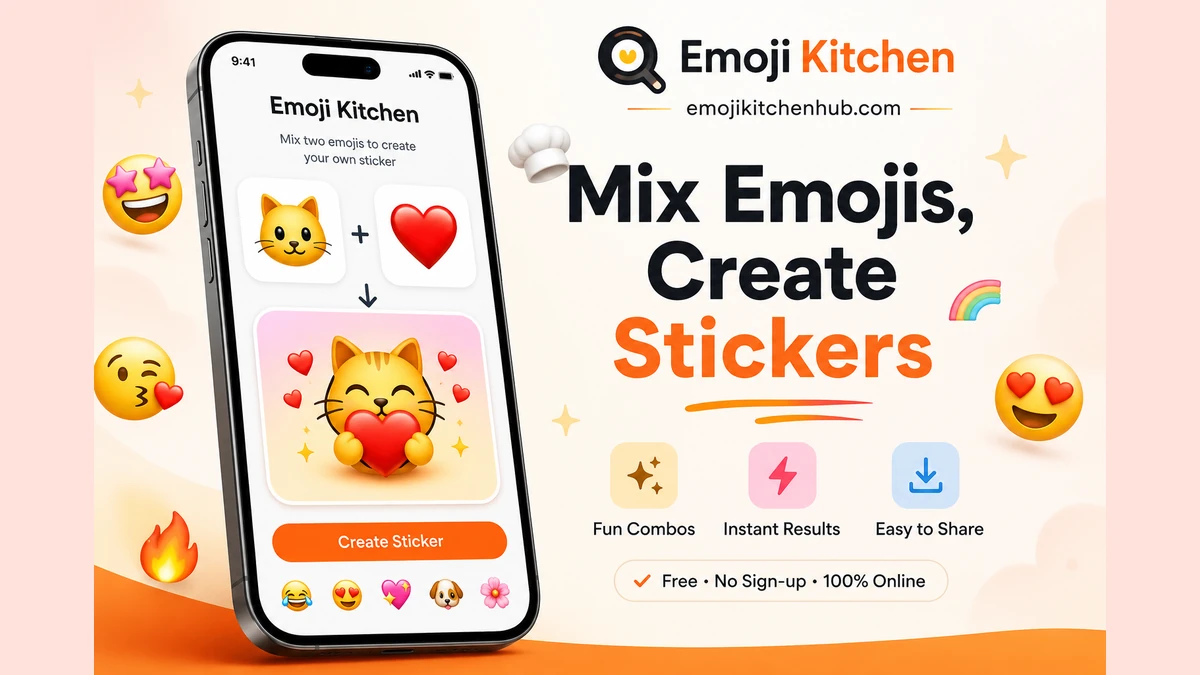
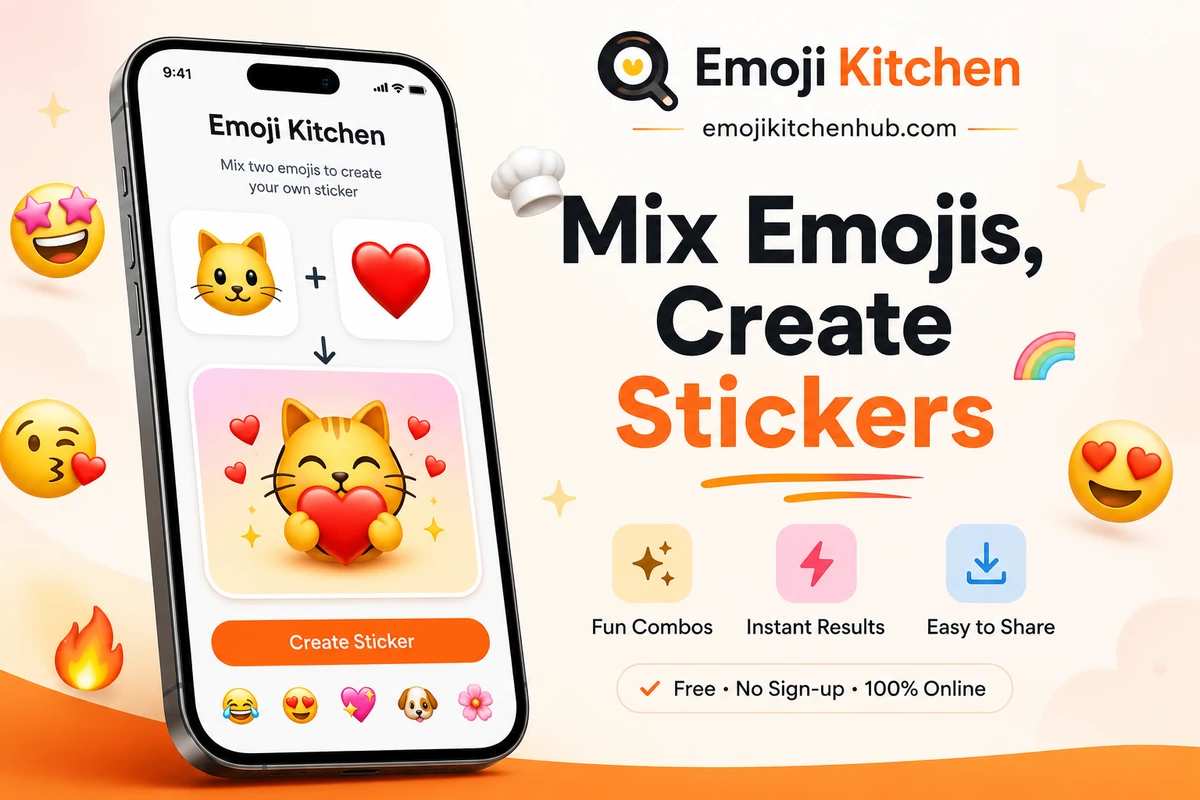
SEO: keep iPhone and WhatsApp covers at native 3:2, 1200x800
Drop the 16:9 letterbox bars that sliced the artwork edges. These two
covers stay at their source aspect with a 1200 long edge and no crop.

diff --git a/kitchen/tests.py b/kitchen/tests.py
@@ -4520,13 +4520,15 @@ class FaqSchemaRenderTests(TestCase):
 # ── 17 Nov 2026 on-page: homepage links, meta cap, compressed covers ─────────
 
 from kitchen.blog_covers import (
+    COVER_ASPECT_TOLERANCE,
     COVER_FILES,
-    COVER_HEIGHT,
-    COVER_WIDTH,
+    COVER_LONG_EDGE,
+    COVER_SOURCE_SIZE,
     MAX_COVER_BYTES,
     cover_bytes as fixture_cover_bytes,
     cover_filename as fixture_cover_filename,
     cover_path as fixture_cover_path,
+    expected_cover_size,
 )
 from kitchen.blog_content import POST_UPDATES
 from kitchen.management.commands.fix_blog_meta_descriptions import META_TARGETS
@@ -4646,11 +4648,12 @@ class FixBlogMetaDescriptionsCommandTests(TestCase):
 
 
 class CompressedBlogCoverTests(TestCase):
-    def test_fixture_covers_are_compressed_1200x675_under_200kb(self):
+    def test_fixture_covers_keep_source_aspect_and_stay_under_200kb(self):
         from PIL import Image
         from io import BytesIO
 
         self.assertEqual(len(COVER_FILES), 10)
+        self.assertEqual(set(COVER_FILES), set(COVER_SOURCE_SIZE))
         for slug in COVER_FILES:
             path = fixture_cover_path(slug)
             self.assertTrue(path.is_file(), slug)
@@ -4658,8 +4661,17 @@ class CompressedBlogCoverTests(TestCase):
             self.assertLessEqual(len(data), MAX_COVER_BYTES, f'{slug} is {len(data)} bytes')
             self.assertTrue(fixture_cover_filename(slug).endswith('.webp'), slug)
             image = Image.open(BytesIO(data))
-            self.assertEqual(image.size, (COVER_WIDTH, COVER_HEIGHT), slug)
-            # hashed name uses the unversioned fixture filename plus 8 hex chars
+            width, height = image.size
+            self.assertEqual((width, height), expected_cover_size(slug), slug)
+            self.assertEqual(max(width, height), COVER_LONG_EDGE, slug)
+            src_w, src_h = COVER_SOURCE_SIZE[slug]
+            source_aspect = src_w / src_h
+            actual_aspect = width / height
+            self.assertLessEqual(
+                abs(actual_aspect - source_aspect) / source_aspect,
+                COVER_ASPECT_TOLERANCE,
+                f'{slug} aspect {actual_aspect} vs source {source_aspect}',
+            )
             from kitchen.blog_seed_utils import cover_versioned_filename
             name = cover_versioned_filename(fixture_cover_filename(slug), data)
             self.assertRegex(name, rf'^{re.escape(path.stem)}-[0-9a-f]{{8}}\.webp$')
@@ -4714,3 +4726,15 @@ class CompressedBlogCoverTests(TestCase):
         for slug in COVER_FILES:
             post = BlogPost.objects.get(slug=slug)
             self.assertEqual(post.updated_at, updated[slug], slug)
+
+        # og:image:width / og:image:height are optional; if present they must
+        # match the attached cover.
+        for slug in COVER_FILES:
+            html = self.client.get(f'/blog/{slug}/').content.decode()
+            width, height = expected_cover_size(slug)
+            og_w = re.search(r'property="og:image:width" content="([^"]*)"', html)
+            og_h = re.search(r'property="og:image:height" content="([^"]*)"', html)
+            if og_w:
+                self.assertEqual(og_w.group(1), str(width), slug)
+            if og_h:
+                self.assertEqual(og_h.group(1), str(height), slug)

diff --git a/kitchen/blog_covers.py b/kitchen/blog_covers.py
@@ -1,8 +1,10 @@
 """Compressed, content-hashed blog cover fixtures.
 
-Each file is a ~1200x675 WebP under 200 KB. Management commands attach
-them with ``assign_versioned_cover`` so the public URL changes, caches
-bust, and IndexNow sees a filename change.
+Eight 16:9 covers are 1200x675 WebP. The iPhone and WhatsApp covers keep
+their native 3:2 ratio at 1200x800, with no letterbox or crop. All files
+are under 200 KB. Management commands attach them with
+``assign_versioned_cover`` so the public URL changes, caches bust, and
+IndexNow sees a filename change.
 """
 
 from pathlib import Path
@@ -25,9 +27,23 @@ COVER_FILES = {
     'emoji-kitchen-instagram': 'emoji-kitchen-instagram-cover.webp',
 }
 
+# Native pixel size of the original artwork, used to keep aspect ratio.
+COVER_SOURCE_SIZE = {
+    'emoji-kitchen-on-pc': (1672, 941),
+    'emoji-kitchen-not-working': (1672, 941),
+    'emoji-kitchen-samsung': (1672, 941),
+    'emoji-kitchen-gboard': (1672, 941),
+    'how-to-save-download-emoji-kitchen-stickers': (1672, 941),
+    'emoji-kitchen-discord': (1672, 941),
+    'emoji-kitchen-google-messages': (1672, 941),
+    'emoji-kitchen-instagram': (1672, 941),
+    'emoji-kitchen-iphone': (1536, 1024),
+    'emoji-kitchen-whatsapp': (1536, 1024),
+}
+
 MAX_COVER_BYTES = 200 * 1024
-COVER_WIDTH = 1200
-COVER_HEIGHT = 675
+COVER_LONG_EDGE = 1200
+COVER_ASPECT_TOLERANCE = 0.01
 
 
 def cover_path(slug):
@@ -40,3 +56,15 @@ def cover_filename(slug):
 
 def cover_bytes(slug):
     return cover_path(slug).read_bytes()
+
+
+def expected_cover_size(slug):
+    """Return (width, height) with long edge 1200, aspect matching the source."""
+    src_w, src_h = COVER_SOURCE_SIZE[slug]
+    if src_w >= src_h:
+        width = COVER_LONG_EDGE
+        height = round(COVER_LONG_EDGE * src_h / src_w)
+    else:
+        height = COVER_LONG_EDGE
+        width = round(COVER_LONG_EDGE * src_w / src_h)
+    return width, height

diff --git a/kitchen/management/commands/compress_blog_covers.py b/kitchen/management/commands/compress_blog_covers.py
@@ -23,7 +23,7 @@ from kitchen.models import BlogPost
 
 class Command(BaseCommand):
     help = (
-        'Attach compressed 1200x675 WebP covers under content-hashed names '
+        'Attach compressed WebP covers (long edge 1200, source aspect) under content-hashed names '
         '(dry run unless --apply is given).'
     )
 
